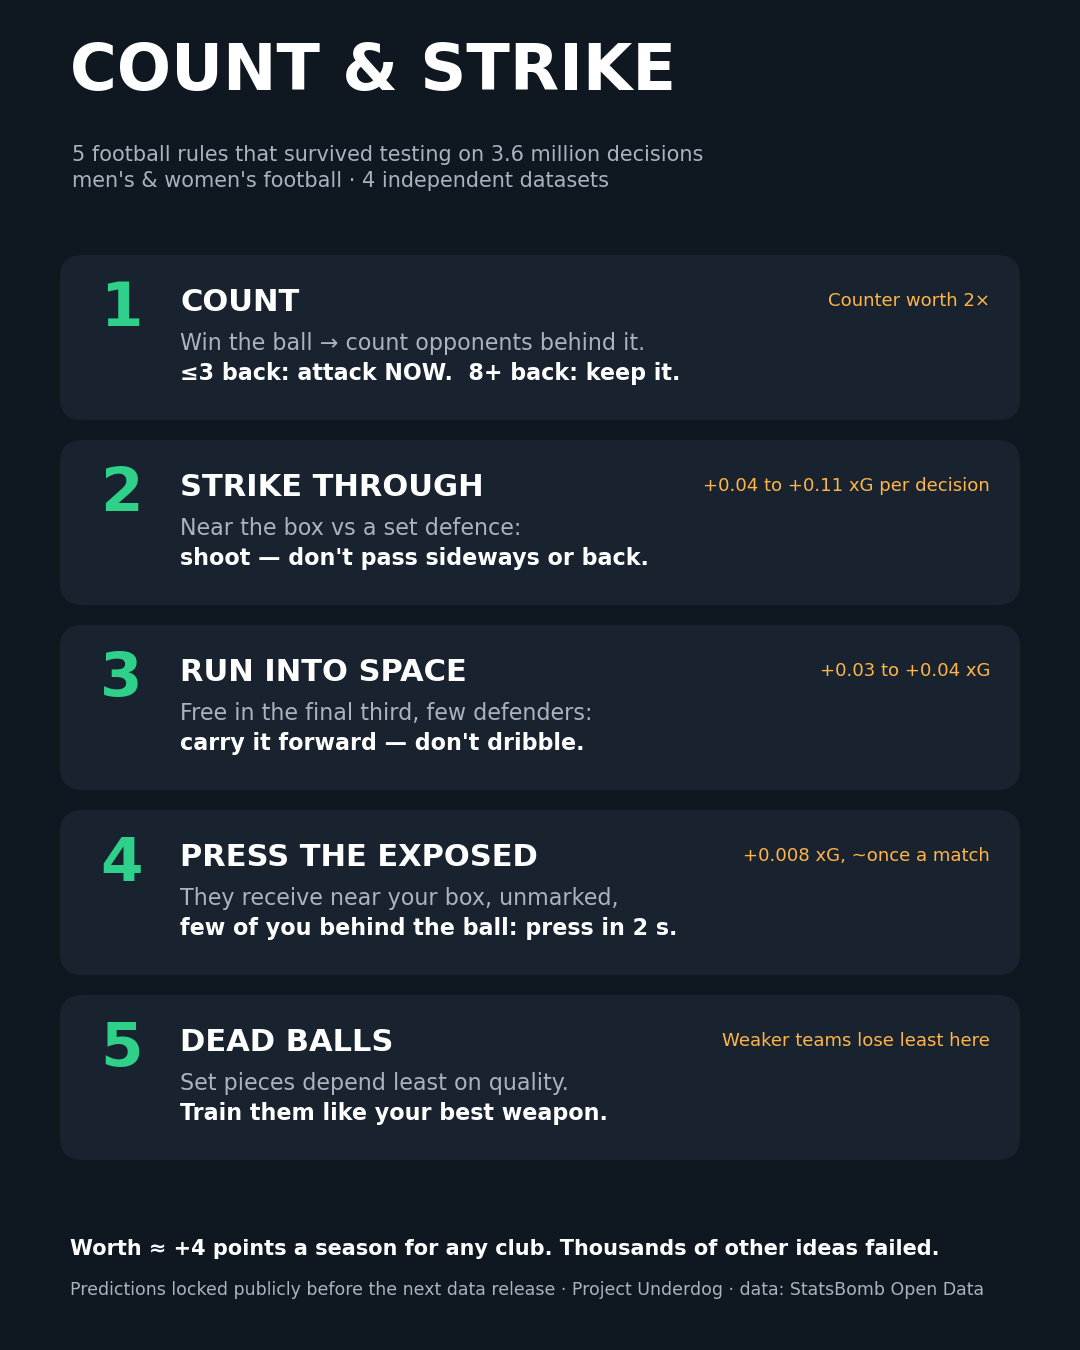
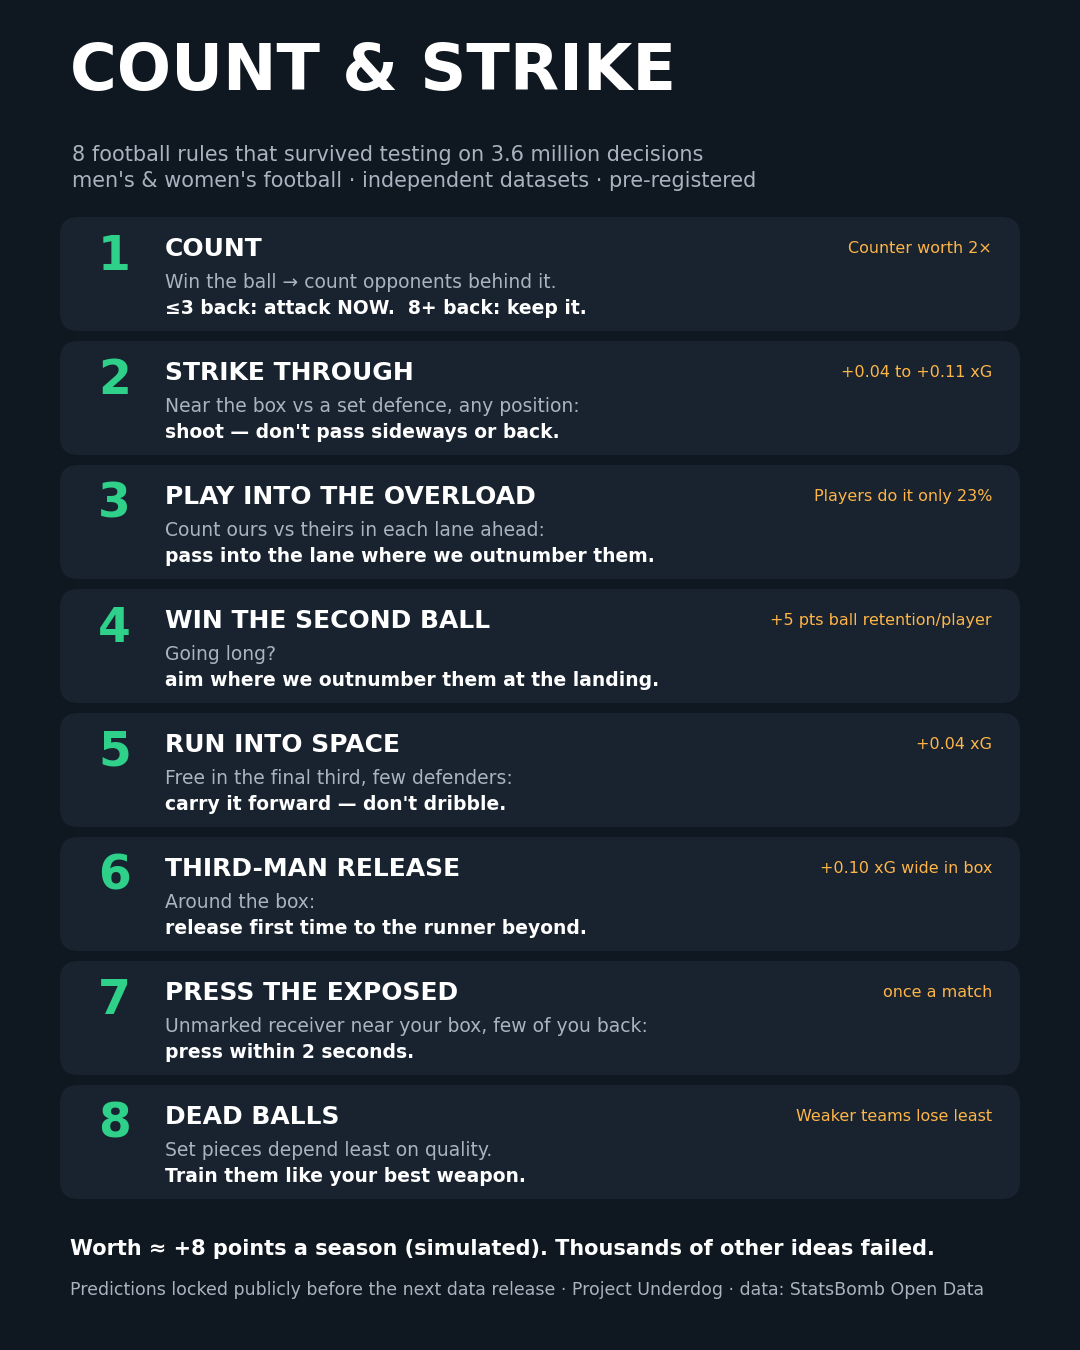
Eight rules: overload, second ball, third-man; updated rule card, site, planner and club values

diff --git a/site/count-and-strike.html b/site/count-and-strike.html
@@ -94,12 +94,15 @@ footer{padding-block:34px;border-top:1px solid var(--line);font-size:14px;color:
 <main>
 <section class="wrap" id="rules">
   <div class="eyebrow">The system</div>
-  <h2>Five rules that survived</h2>
+  <h2>Eight rules that survived</h2>
   <p>Each rule was found on one set of matches, then held up again in football it had never seen: men's club football and women's football, judged with the same space around the player.</p>
   <div class="rules">
     <div class="rule"><div class="mag">C</div><div><h3>Count</h3><p class="when">You win the ball. Count the opponents behind it.</p><p class="do">3 or fewer back: attack now, two runners, first pass forward. 8 or more back: keep it.</p></div><div class="gain">each defender back<br>−11 to −19% value</div></div>
     <div class="rule"><div class="mag">S</div><div><h3>Strike through</h3><p class="when">Near the box against a set defence, even under pressure.</p><p class="do">Shoot. Don't pass sideways or back. Waiting doesn't produce a better chance later.</p></div><div class="gain">+0.04 to +0.11 xG<br>per decision</div></div>
+    <div class="rule"><div class="mag">O</div><div><h3>Play into the overload</h3><p class="when">Count ours against theirs in each lane ahead of the ball.</p><p class="do">Pass into the lane where you outnumber them, not the crowded one.</p></div><div class="gain">94% vs 84% completed<br>players pick it only 23%</div></div>
+    <div class="rule"><div class="mag">B</div><div><h3>Win the second ball</h3><p class="when">Going long, from a goal kick or open play.</p><p class="do">Aim where you outnumber them around the landing spot.</p></div><div class="gain">+5 pts ball retention<br>per extra player</div></div>
     <div class="rule"><div class="mag">R</div><div><h3>Run into space</h3><p class="when">Free in the final third, few defenders ahead.</p><p class="do">Carry it forward. Don't take on a man or turn back.</p></div><div class="gain">+0.03 to +0.04 xG</div></div>
+    <div class="rule"><div class="mag">T</div><div><h3>Third-man release</h3><p class="when">You receive around the box and a teammate is already beyond you.</p><p class="do">Release it first time to that runner.</p></div><div class="gain">+0.10 to +0.14 xG<br>wide box areas</div></div>
     <div class="rule"><div class="mag">P</div><div><h3>Press the exposed</h3><p class="when">They receive near your box, unmarked, and few of you are behind the ball.</p><p class="do">Press within two seconds instead of holding shape.</p></div><div class="gain">+0.008 xG<br>about once a match</div></div>
     <div class="rule"><div class="mag">D</div><div><h3>Dead balls</h3><p class="when">Set pieces depend on team quality far less than open play.</p><p class="do">Train corners and wide free kicks as your main weapon.</p></div><div class="gain">weaker teams lose<br>least ground here</div></div>
   </div>
@@ -127,7 +130,7 @@ footer{padding-block:34px;border-top:1px solid var(--line);font-size:14px;color:
   <h2>Most ideas died</h2>
   <div class="funnel">
     <div class="step"><b>3.6M</b><span>decisions: every pass, carry, dribble and shot</span></div>
-    <div class="step"><b>~8,700</b><span>candidate rules searched automatically</span></div>
+    <div class="step"><b>~9,000</b><span>ideas and candidate rules tested automatically</span></div>
     <div class="step"><b>22</b><span>passed a false-discovery filter on the first dataset</span></div>
     <div class="step"><b>12</b><span>held in both unseen populations</span></div>
   </div>
@@ -148,6 +151,14 @@ footer{padding-block:34px;border-top:1px solid var(--line);font-size:14px;color:
         <li>Adapt to strict referees</li>
         <li>AI-optimised in-game style switching</li>
         <li>Simulator "chess engine" policies (overstate value 3–4×)</li>
+        <li>"You're most vulnerable right after scoring"</li>
+        <li>Only cross with bodies in the box</li>
+        <li>Take free kicks and throws quickly</li>
+        <li>Press on the trigger (back pass, touchline, bad touch)</li>
+        <li>Commit more runners on the counter</li>
+        <li>Overload the six-yard box at corners</li>
+        <li>Sub early when losing</li>
+        <li>Pick your formation for the matchup</li>
       </ul>
     </div>
   </div>
@@ -225,7 +236,7 @@ footer{padding-block:34px;border-top:1px solid var(--line);font-size:14px;color:
       <div class="advice">
         <p><b>If level:</b> ${sw===null?'stay LOW to the end. The draw is worth protecting.':(sw===0?'go HIGH from the start. You are the stronger side.':`play LOW until the ${sw}th minute, then go HIGH.`)} <b>If behind:</b> go HIGH. <b>If ahead:</b> stay LOW. Expected value of the plan over playing it straight: +${gain.toFixed(3)} points.</p>
         <p><b>Set pieces:</b> about ${Math.round(sp*100)}% of your chances should come from dead balls, against ${Math.round(spo*100)}% for ${esc(opp)}. ${sp>spo?'Dead balls are where you close the gap. Rehearse two or three corner routines.':'You are the stronger side in open play, so defend set pieces with extra care.'}</p>
-        <p><b>In the moment:</b> use the five rules above. Count at every regain, shoot near the box rather than recycling, run into space, and press the exposed receiver near your box.</p>
+        <p><b>In the moment:</b> use the eight rules above. Count at every regain, shoot near the box rather than recycling, pass and go long into your overloads, run into space, release the third man, and press the exposed receiver near your box.</p>
       </div>`;}
   document.getElementById('f').addEventListener('submit',build);
   build();

diff --git a/src/make_rulecard.py b/src/make_rulecard.py
@@ -7,21 +7,24 @@ BG, INK, MUTED, ACC, ACC2 = "#0f1720", "#ffffff", "#a9b4c0", "#2fd08a", "#ffb547
 f = plt.figure(figsize=(10.8, 13.5), dpi=100); f.patch.set_facecolor(BG)
 ax = f.add_axes([0, 0, 1, 1]); ax.set_xlim(0, 1080); ax.set_ylim(0, 1350); ax.axis("off")
 ax.text(70, 1260, "COUNT & STRIKE", color=INK, fontsize=46, weight="bold", family="DejaVu Sans")
-ax.text(72, 1205, "5 football rules that survived testing on 3.6 million decisions\nmen's & women's football · 4 independent datasets", color=MUTED, fontsize=15, va="top", linespacing=1.4)
-rules = [("1", "COUNT", "Win the ball → count opponents behind it.", "≤3 back: attack NOW.  8+ back: keep it.", "Counter worth 2×"),
-         ("2", "STRIKE THROUGH", "Near the box vs a set defence:", "shoot — don't pass sideways or back.", "+0.04 to +0.11 xG per decision"),
-         ("3", "RUN INTO SPACE", "Free in the final third, few defenders:", "carry it forward — don't dribble.", "+0.03 to +0.04 xG"),
-         ("4", "PRESS THE EXPOSED", "They receive near your box, unmarked,", "few of you behind the ball: press in 2 s.", "+0.008 xG, ~once a match"),
-         ("5", "DEAD BALLS", "Set pieces depend least on quality.", "Train them like your best weapon.", "Weaker teams lose least here")]
-y = 1080
+ax.text(72, 1205, "8 football rules that survived testing on 3.6 million decisions\nmen's & women's football \u00b7 independent datasets \u00b7 pre-registered", color=MUTED, fontsize=15, va="top", linespacing=1.4)
+rules = [("1", "COUNT", "Win the ball \u2192 count opponents behind it.", "\u22643 back: attack NOW.  8+ back: keep it.", "Counter worth 2\u00d7"),
+         ("2", "STRIKE THROUGH", "Near the box vs a set defence, any position:", "shoot \u2014 don't pass sideways or back.", "+0.04 to +0.11 xG"),
+         ("3", "PLAY INTO THE OVERLOAD", "Count ours vs theirs in each lane ahead:", "pass into the lane where we outnumber them.", "Players do it only 23%"),
+         ("4", "WIN THE SECOND BALL", "Going long?", "aim where we outnumber them at the landing.", "+5 pts ball retention/player"),
+         ("5", "RUN INTO SPACE", "Free in the final third, few defenders:", "carry it forward \u2014 don't dribble.", "+0.04 xG"),
+         ("6", "THIRD-MAN RELEASE", "Around the box:", "release first time to the runner beyond.", "+0.10 xG wide in box"),
+         ("7", "PRESS THE EXPOSED", "Unmarked receiver near your box, few of you back:", "press within 2 seconds.", "once a match"),
+         ("8", "DEAD BALLS", "Set pieces depend least on quality.", "Train them like your best weapon.", "Weaker teams lose least")]
+y = 1125
 for n, title, l1, l2, val in rules:
-    ax.add_patch(FancyBboxPatch((60, y - 150), 960, 165, boxstyle="round,pad=0,rounding_size=22", fc="#18232f", ec="none"))
-    ax.text(100, y - 10, n, color=ACC, fontsize=44, weight="bold", va="top")
-    ax.text(180, y - 18, title, color=INK, fontsize=22, weight="bold", va="top")
-    ax.text(180, y - 62, l1, color=MUTED, fontsize=16, va="top")
-    ax.text(180, y - 92, l2, color=INK, fontsize=16, va="top", weight="bold")
-    ax.text(990, y - 22, val, color=ACC2, fontsize=13, va="top", ha="right")
-    y -= 185
-ax.text(70, 95, "Worth ≈ +4 points a season for any club. Thousands of other ideas failed.", color=INK, fontsize=15, weight="bold")
+    ax.add_patch(FancyBboxPatch((60, y - 106), 960, 114, boxstyle="round,pad=0,rounding_size=18", fc="#18232f", ec="none"))
+    ax.text(98, y - 8, n, color=ACC, fontsize=34, weight="bold", va="top")
+    ax.text(165, y - 12, title, color=INK, fontsize=18, weight="bold", va="top")
+    ax.text(165, y - 48, l1, color=MUTED, fontsize=13.5, va="top")
+    ax.text(165, y - 74, l2, color=INK, fontsize=13.5, va="top", weight="bold")
+    ax.text(992, y - 16, val, color=ACC2, fontsize=11.5, va="top", ha="right")
+    y -= 124
+ax.text(70, 95, "Worth \u2248 +8 points a season (simulated). Thousands of other ideas failed.", color=INK, fontsize=15, weight="bold")
 ax.text(70, 55, "Predictions locked publicly before the next data release · Project Underdog · data: StatsBomb Open Data", color=MUTED, fontsize=12.5)
 f.savefig(os.path.join(ROOT, "figures", "count_and_strike_card.png"), facecolor=BG); print("ok")

diff --git a/src/make_whitepaper_figs.py b/src/make_whitepaper_figs.py
@@ -141,7 +141,7 @@ ax.legend(frameon=False, fontsize=9, loc="upper right", ncol=2)
 save(fig, "rule_deadballs.png")
 
 # 6. VALUE — club outcomes before/after
-J = json.load(open(os.path.join(ROOT, "results", "clubs_playbook.json")))
+J = json.load(open(os.path.join(ROOT, "results", "clubs_playbook_v2.json")))
 rows = [("Man City", "p_title", "Title"), ("Chelsea", "p_top4", "Top 4"), ("Newcastle", "p_top4", "Top 4"), ("Brighton", "p_top4", "Top 4"),
         ("Leeds", "p_releg", "Relegation"), ("Sunderland", "p_releg", "Relegation"), ("Wolves", "p_releg", "Relegation")]
 fig, ax = plt.subplots(figsize=(7.2, 3.6))
@@ -157,3 +157,56 @@ for s in ("top", "right", "left"):
     ax.spines[s].set_visible(False)
 save(fig, "value_clubs.png")
 print("figures in", OUT)
+
+
+# ---------- v2 additions: overload, second ball, third-man ----------
+def lane_lines(ax, x0=60):
+    for yl in (26.7, 53.3):
+        ax.plot([x0, 120], [yl, yl], color=LINE, lw=0.8, ls=(0, (4, 4)), alpha=0.55, zorder=1)
+
+# 6. OVERLOAD
+fig, ax = plt.subplots(figsize=(6.4, 4.6)); half_pitch(ax, x0=60); lane_lines(ax)
+player(ax, 70, 58, "us", ball=True)
+for x, y in ((84, 62), (90, 72), (96, 66)):
+    player(ax, x, y, "us")
+for x, y in ((86, 56), (92, 60), (98, 52), (94, 46), (100, 58)):
+    player(ax, x, y, "them")
+for x, y in ((86, 14), (98, 20)):
+    player(ax, x, y, "us")
+player(ax, 92, 24, "them")
+arrow(ax, (72, 56), (95, 18), color=AMBER, lw=2.6)
+arrow(ax, (72, 59.5), (83, 61.5), color=LINE, ls=":", lw=1.6)
+ax.text(108, 8, "+1", color=AMBER, fontsize=14, weight="bold", ha="center")
+ax.text(108, 70, "−2", color=LINE, fontsize=14, weight="bold", ha="center")
+ax.text(62, 3, "PLAY INTO THE OVERLOAD", color=AMBER, fontsize=9, weight="bold", ha="left")
+save(fig, "rule_overload.png")
+
+# 7. SECOND BALL
+fig, ax = plt.subplots(figsize=(6.4, 4.6)); full_pitch(ax)
+player(ax, 30, 40, "us", ball=True)
+ax.add_patch(Circle((86, 22), 13, fc=AMBER, alpha=0.16, ec=AMBER, lw=1.2, zorder=2))
+ax.add_patch(Circle((86, 60), 13, fc="white", alpha=0.08, ec=LINE, lw=1.0, ls="--", zorder=2))
+for x, y in ((80, 18), (90, 26), (84, 30)):
+    player(ax, x, y, "us")
+player(ax, 92, 16, "them")
+for x, y in ((82, 58), (90, 64), (88, 54)):
+    player(ax, x, y, "them")
+player(ax, 84, 66, "us")
+arrow(ax, (32, 38), (85, 23), color=AMBER, lw=2.6, rad=-0.15)
+arrow(ax, (32, 42), (85, 58), color=LINE, ls=":", lw=1.6, rad=0.15)
+ax.text(86, 3, "3 v 1: aim here", color=AMBER, fontsize=10, weight="bold", ha="center")
+ax.text(86, 76.5, "1 v 3", color=LINE, fontsize=9, ha="center")
+save(fig, "rule_secondball.png")
+
+# 8. THIRD MAN
+fig, ax = plt.subplots(figsize=(6.4, 4.6)); half_pitch(ax, x0=60)
+player(ax, 74, 30, "us", label="A")
+player(ax, 88, 34, "us", label="B", ball=True)
+player(ax, 98, 52, "us", label="C")
+for x, y in ((92, 32), (100, 40), (104, 30), (96, 22)):
+    player(ax, x, y, "them")
+arrow(ax, (76, 31), (86, 34), color=LINE, lw=1.8)
+arrow(ax, (90, 36), (97, 50), color=AMBER, lw=2.6)
+ax.text(90, 70, "B releases first time to C,\nwho is already beyond A", color=AMBER, fontsize=8, weight="bold", ha="center")
+save(fig, "rule_thirdman.png")
+print("v2 figures written")

diff --git a/src/matchplan.py b/src/matchplan.py
@@ -115,6 +115,10 @@ ol li{{margin-bottom:6px}}</style></head><body>
 <tr><td>25–40 yds, central, packed defence, you are pressed, 4+ teammates ahead</td><td><b>Shoot</b> (teams recycle here 7× more than they shoot)</td><td>+0.013 xG</td></tr>
 <tr><td>Attacking third, central, free (no one within 7 yds), ≤3 defenders back</td><td><b>Carry it forward into the space</b>; don't dribble or dither</td><td>+0.04 xG</td></tr>
 <tr><td>Midfield, central, pressed, packed defence ahead</td><td><b>Short pass forward</b>, not backwards</td><td>+0.006 xG</td></tr>
+<tr><td>Pass ahead: one lane has more of us than them, another is crowded</td><td><b>Play into the overload</b> (players choose it only 23% of the time)</td><td>94% vs 84% completion</td></tr>
+<tr><td>Going long (goal kick or open play)</td><td><b>Aim where we outnumber them</b> at the landing spot</td><td>+5 pts chance of keeping the ball per extra player</td></tr>
+<tr><td>Receiving around the box, a teammate already beyond you</td><td><b>Release first time</b> to the runner</td><td>+0.10–0.14 xG (weaker evidence)</td></tr>
+<tr><td>They receive unmarked near our box, ≤5 of us goal-side</td><td><b>Press within 2 s</b></td><td>+0.008 xG</td></tr>
 <tr><td><b>The counter trigger:</b> you just won the ball, so count the opponents behind it</td><td><b>≤3 back: GO.</b> 8+ back: keep it</td><td>each extra defender back costs 11–19% of the counter's value</td></tr>
 </table>
 {opp_block}

diff --git a/src/clubs_playbook_v2.py b/src/clubs_playbook_v2.py
@@ -1,0 +1,12 @@
+"""Season value of the full eight-rule system (50% adoption), 2025/26 Premier League, 40k seasons per club.
+Rule values from r19_rule_value.py; second ball and third-man are not added (no xG translation estimated) — conservative."""
+import json, os, sys
+sys.path.insert(0, os.path.dirname(__file__))
+from season_sim import simulate, ROOT
+J = json.load(open(os.path.join(ROOT, "results", "r19_rule_value.json")))
+R = J["rules"]; allr = dict(sp_for=sum(v.get("sp_for", 0) for v in R.values()), sp_against=sum(v.get("sp_against", 0) for v in R.values()), c=0.09)
+out = {}
+for c in ["Man City", "Chelsea", "Newcastle", "Brighton", "Brentford", "Leeds", "Sunderland", "Wolves"]:
+    b = simulate(n_sims=40_000, team=c); p = simulate(n_sims=40_000, team=c, **allr)
+    out[c] = dict(base=b, playbook=p); print(c, round(b["E_pts"], 1), "->", round(p["E_pts"], 1), {k: (round(b[k] * 100, 1), round(p[k] * 100, 1)) for k in ("p_title", "p_top4", "p_releg")})
+json.dump(out, open(os.path.join(ROOT, "results", "clubs_playbook_v2.json"), "w"), indent=1)
